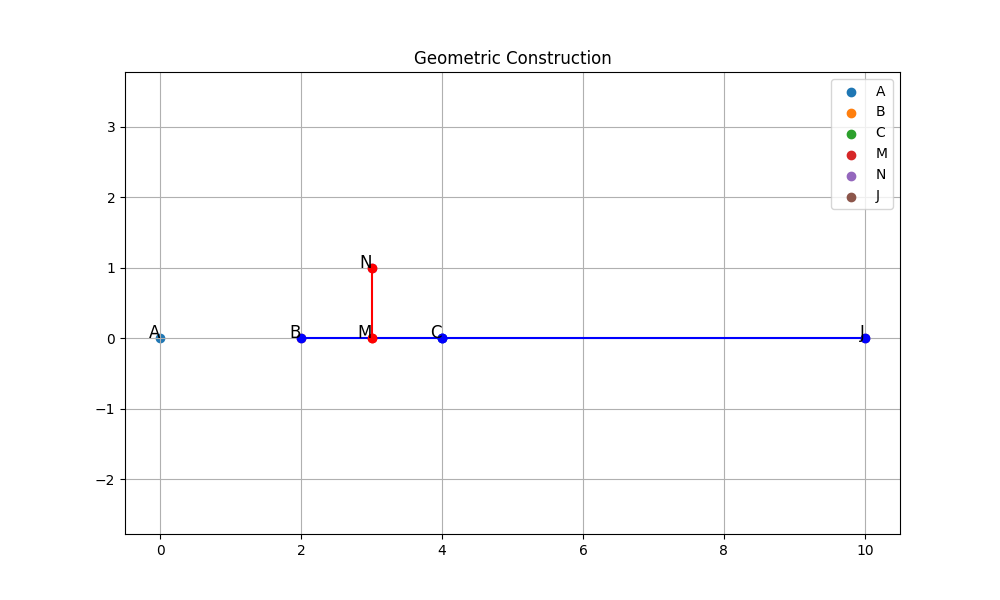
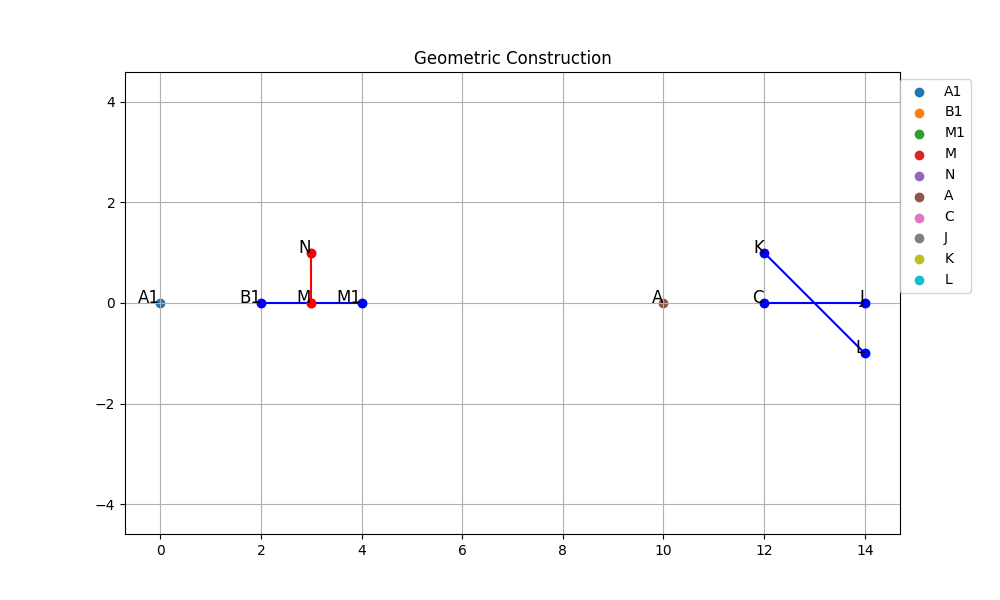
Placed legend in the right corner

diff --git a/main.py b/main.py
@@ -30,7 +30,7 @@ try:
             print(f"Error executing command '{cmd}': {str(e)}")
 
     plt.axis('equal')
-    plt.legend()
+    plt.legend(loc='upper right', bbox_to_anchor=(1.1, 1))
     plt.grid(True)
     plt.title("Geometric Construction")
     plt.savefig('geometric_construction.png')
